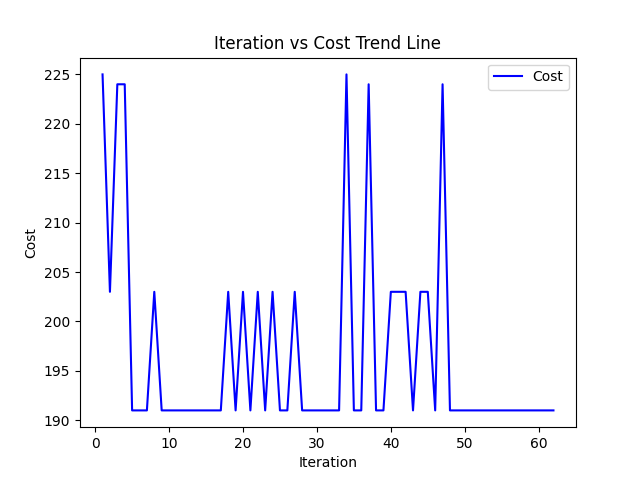
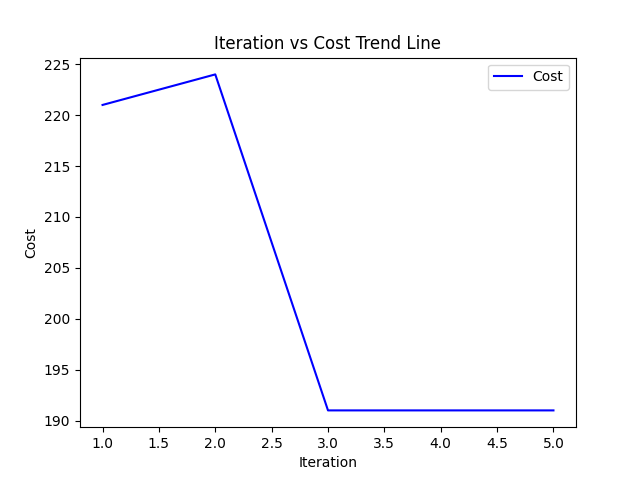
feat: requirements.txt

diff --git a/AI_code/aco.py b/AI_code/aco.py
@@ -1,10 +1,7 @@
 import random
 import coordinate
-# import mlflow
 
 def ant_colony_optimization(alpha, beta, evaporation_rate, quality_factor, iterations, start_city, coordinates):
-    # mlflow.set_tracking_uri('http://140.124.181.7:5000')
-    # mlflow.set_experiment('ACO')
     distance_cost = coordinate.transfer_coordinate_to_cost_matrix(coordinates)  # 座標轉換成距離矩陣
     num_ants = len(distance_cost)   # 螞蟻數量
     num_cities = len(distance_cost)   # 城市數量
@@ -14,73 +11,79 @@ def ant_colony_optimization(alpha, beta, evaporation_rate, quality_factor, itera
     min_cost = float('inf')   # 最短路徑長度
 
     for i in range(iterations):
-        # with mlflow.start_run() as run:
-            ant_paths = []  # 每次iteration所有螞蟻的路徑
-            ant_distances = []   # 螞蟻路徑長度
+        ant_paths = []  # 每次iteration所有螞蟻的路徑
+        ant_distances = []   # 螞蟻路徑長度
 
-            # mlflow.log_params({ "iterations" : i })
+        for ant_No in range(num_ants):
+            init_city = ant_No   # 起始城市 (分配到不同初始城市)
+            ant_path = [init_city]  # 加入初始城市到路徑
+            ant_distance = 0    
+            current_city = init_city  # 初始化當前城市
+            unvisited_cities = [city for city in range(num_cities)]  # 建立所有城市的列表
+            unvisited_cities.remove(init_city)  # 移除起點
+            
+            while unvisited_cities:
+                probabilities = []
+                # 計算未到達城市的機率
+                for city in unvisited_cities:
+                    distance = distance_cost[current_city][city]    # 取得 current_city 與 city 之間的距離
+                    pheromone = pheromone_matrix[current_city][city]    # 計算 current_city 到 city 的費洛蒙濃度
+                    probability = (pheromone ** alpha) * ((1 / distance) ** beta)
+                    probabilities.append((city, probability))
 
-            for ant_No in range(num_ants):
-                init_city = ant_No   # 起始城市 (分配到不同初始城市)
-                ant_path = [init_city]  # 加入初始城市到路徑
-                ant_distance = 0    
-                current_city = init_city  # 初始化當前城市
-                unvisited_cities = [city for city in range(num_cities)]  # 建立所有城市的列表
-                unvisited_cities.remove(init_city)  # 移除起點
-                
-                while unvisited_cities:
-                    probabilities = []
-                    # 計算未到達城市的機率
-                    for city in unvisited_cities:
-                        distance = distance_cost[current_city][city]    # 取得 current_city 與 city 之間的距離
-                        pheromone = pheromone_matrix[current_city][city]    # 計算 current_city 到 city 的費洛蒙濃度
-                        probability = (pheromone ** alpha) * ((1 / distance) ** beta)
-                        probabilities.append((city, probability))
+                total_probability = sum(probability for _,probability in probabilities)
 
-                    total_probability = sum(probability for _,probability in probabilities)
+                if total_probability == 0:
+                    break
 
-                    if total_probability == 0:
-                        break
+                for city, probability in probabilities:
+                    probability = round(probability / total_probability, 2)  # 計算機率 
+            
+                next_city = random.choices([city for city, _ in probabilities], [probability for _, probability in probabilities])[0]   # 隨機選擇下一個城市
+                # next_city = max(probabilities, key=lambda x: x[1])[0]  # 選擇機率最大的城市
+                # next_city = min(probabilities, key=lambda x: x[1])[0]  # 選擇機率最小的城市
 
-                    for city, probability in probabilities:
-                        probability = round(probability / total_probability, 2)  # 計算機率 
-                
-                    next_city = random.choices([city for city, _ in probabilities], [probability for _, probability in probabilities])[0]   # 隨機選擇下一個城市
-                    ant_path.append(next_city)   # 將下一個 city 加入路徑
-                    ant_distance += distance_cost[current_city][next_city]  # 取得 current_city 與 city 之間的距離
-                    current_city = next_city    # 更新 current_city
-                    unvisited_cities.remove(next_city)   # 移除已經走過的城市
+                ant_path.append(next_city)   # 將下一個 city 加入路徑
+                ant_distance += distance_cost[current_city][next_city]  # 取得 current_city 與 city 之間的距離
+                current_city = next_city    # 更新 current_city
+                unvisited_cities.remove(next_city)   # 移除已經走過的城市
 
-                ant_distance += distance_cost[next_city][init_city]  # 回到起點
+            ant_distance += distance_cost[next_city][init_city]  # 回到起點
 
-                if ant_distance < min_cost:
-                    min_cost = ant_distance
-                    best_path = ant_path
+            if ant_distance < min_cost:
+                min_cost = ant_distance
+                best_path = ant_path
 
-                ant_paths.append(ant_path)
-                ant_distances.append(ant_distance)
+            ant_paths.append(ant_path)
+            ant_distances.append(ant_distance)
 
-            # mlflow.log_metrics({"cost" : min_cost})
+        # mlflow.log_metrics({"cost" : min_cost})
 
-            # 更新費洛蒙濃度
-            for i in range(num_cities):
-                for j in range(num_cities):
-                    pheromone_matrix[i][j] = pheromone_matrix[i][j] * (1 - evaporation_rate)
+        # 更新費洛蒙濃度
+        for z in range(num_cities):
+            for j in range(num_cities):
+                pheromone_matrix[z][j] = pheromone_matrix[z][j] * (1 - evaporation_rate)
 
-            for ant_path, ant_distance in zip(ant_paths, ant_distances):
-                for i in range(len(ant_path) - 1):
-                    pheromone_matrix[ant_path[i]][ant_path[i+1]] += quality_factor / ant_distance
-                    pheromone_matrix[ant_path[i+1]][ant_path[i]] += quality_factor / ant_distance
+        for ant_path, ant_distance in zip(ant_paths, ant_distances):
+            for z in range(len(ant_path) - 1):
+                pheromone_matrix[ant_path[z]][ant_path[z+1]] += quality_factor / ant_distance
+                pheromone_matrix[ant_path[z+1]][ant_path[z]] += quality_factor / ant_distance
 
-            # print(ant_paths)
-            # print(ant_distances)
-            iteration_best_cost.append(min(ant_distances))
+        print(f"\nIteration {i+1}:")
+        print("每一隻螞蟻的路徑:[ant1_path, ant2_path, ...]")
+        print(ant_paths) # 印出每一隻螞蟻的路徑
+        print("每一隻螞蟻的路徑:[ant1_pathLength, ant2_pathLength, ...]")
+        print(ant_distances) # 印出每一隻螞蟻的路徑長度
+        print("Pheromone matrix:")
+        print(pheromone_matrix) # 印出每一隻螞蟻的費洛蒙濃度
 
-            # if (is_all_same_element(ant_distances)):
-            #     total_times += 1
+        iteration_best_cost.append(min(ant_distances))
 
-            # if total_times == 10:
-            #     break
+        # if (is_all_same_element(ant_distances)):
+        #     total_times += 1
+
+        # if total_times == 10:
+        #     break
     
     # print('best_path:', best_path)
     s_index = best_path.index(start_city)

diff --git a/AI_code/main.py b/AI_code/main.py
@@ -105,30 +105,34 @@ if __name__ == '__main__':
     # #answer: 1232
     # #[0, 6, 14, 2, 10, 5, 4, 9, 15, 16, 17, 19, 11, 7, 13, 3, 1, 18, 8, 12, 0]
 
-    # start_city = 0
+
+    #------------------------------------------------------------上方皆為測試資料------------------------------------------------------------------
+
+    start_city = 0
     # num_coordinate = 300
     # coordinates = coordinate.generate_coordinates(num_coordinate)
 
-    # coordinates = [
-    #     (70, 42),
-    #     (48, 40),
-    #     (2, 58),
-    #     (46, 12),
-    #     (76, 15)
-    # ]
+    # 輸入城市座標
+    coordinates = [
+        (70, 42),
+        (48, 40),
+        (2, 58),
+        (46, 12),
+        (76, 15)
+    ]
 
-    # alpha = 1
-    # beta = 1
-    # evaporation_rate = 0.95
-    # quality_factor = 100
-    # iterations = 50
+    alpha = 1
+    beta = 1
+    evaporation_rate = 0.95
+    quality_factor = 100
+    iterations = 5
 
-    # min_cost, best_path, iteration_costs = aco.ant_colony_optimization(alpha, beta, evaporation_rate, quality_factor, iterations, start_city, coordinates)
-    # print('TSP using ACO result:')
-    # print("Min cost :", min_cost)
-    # print("Best path :", best_path)
-    # coordinate.draw_cities_best_path('Ant Colony Optimization', start_city, min_cost, best_path, coordinates)
-    # coordinate.draw_iteration_best_cost(iteration_costs)
+    min_cost, best_path, iteration_costs = aco.ant_colony_optimization(alpha, beta, evaporation_rate, quality_factor, iterations, start_city, coordinates)
+    print('TSP using ACO result:')
+    print("Min cost :", min_cost)
+    print("Best path :", best_path)
+    coordinate.draw_cities_best_path('Ant Colony Optimization', start_city, min_cost, best_path, coordinates)
+    coordinate.draw_iteration_best_cost(iteration_costs)
 
     # min_cost, best_path = dp.dynamic_programming(start_city, coordinates)
     # print('TSP using Dynamic Programming result:')
@@ -136,4 +140,4 @@ if __name__ == '__main__':
     # print("Best path :", best_path)
     # coordinate.draw_cities_best_path('Dynamic Programming', start_city, min_cost, best_path, coordinates)
 
-    compare.comparison_algorithm()
+    # compare.comparison_algorithm()

diff --git a/AI_code/compare.py b/AI_code/compare.py
@@ -3,11 +3,8 @@ import aco
 import time
 import coordinate
 import matplotlib.pyplot as plt
-import mlflow
 
 def comparison_algorithm():
-    mlflow.set_tracking_uri('http://140.124.181.7:5000')
-    mlflow.set_experiment('ACO Time Cost')
     start_city = 0
     num_cities = 50
     alpha = 1
@@ -20,15 +17,12 @@ def comparison_algorithm():
     dp_time = []
 
     for i in range(2, num_cities):
-        with mlflow.start_run() as run:
-            mlflow.log_params({ "cities" : i })
-            num_coordinate = i
-            coordinates = coordinate.generate_coordinates(num_coordinate)
-            aco_cost = calculate_aco_time_cost(alpha, beta, evaporation_rate, quality_factor, iterations, start_city, coordinates)
-            dp_cost = calculate_dp_time_cost(start_city, coordinates)
-            aco_time.append(aco_cost)
-            dp_time.append(dp_cost)
-            mlflow.log_metrics({ "ACO Time Cost" : aco_cost})
+        num_coordinate = i
+        coordinates = coordinate.generate_coordinates(num_coordinate)
+        aco_cost = calculate_aco_time_cost(alpha, beta, evaporation_rate, quality_factor, iterations, start_city, coordinates)
+        dp_cost = calculate_dp_time_cost(start_city, coordinates)
+        aco_time.append(aco_cost)
+        dp_time.append(dp_cost)
     
     draw_time_cost_graph(aco_time, dp_time, num_cities)
 
